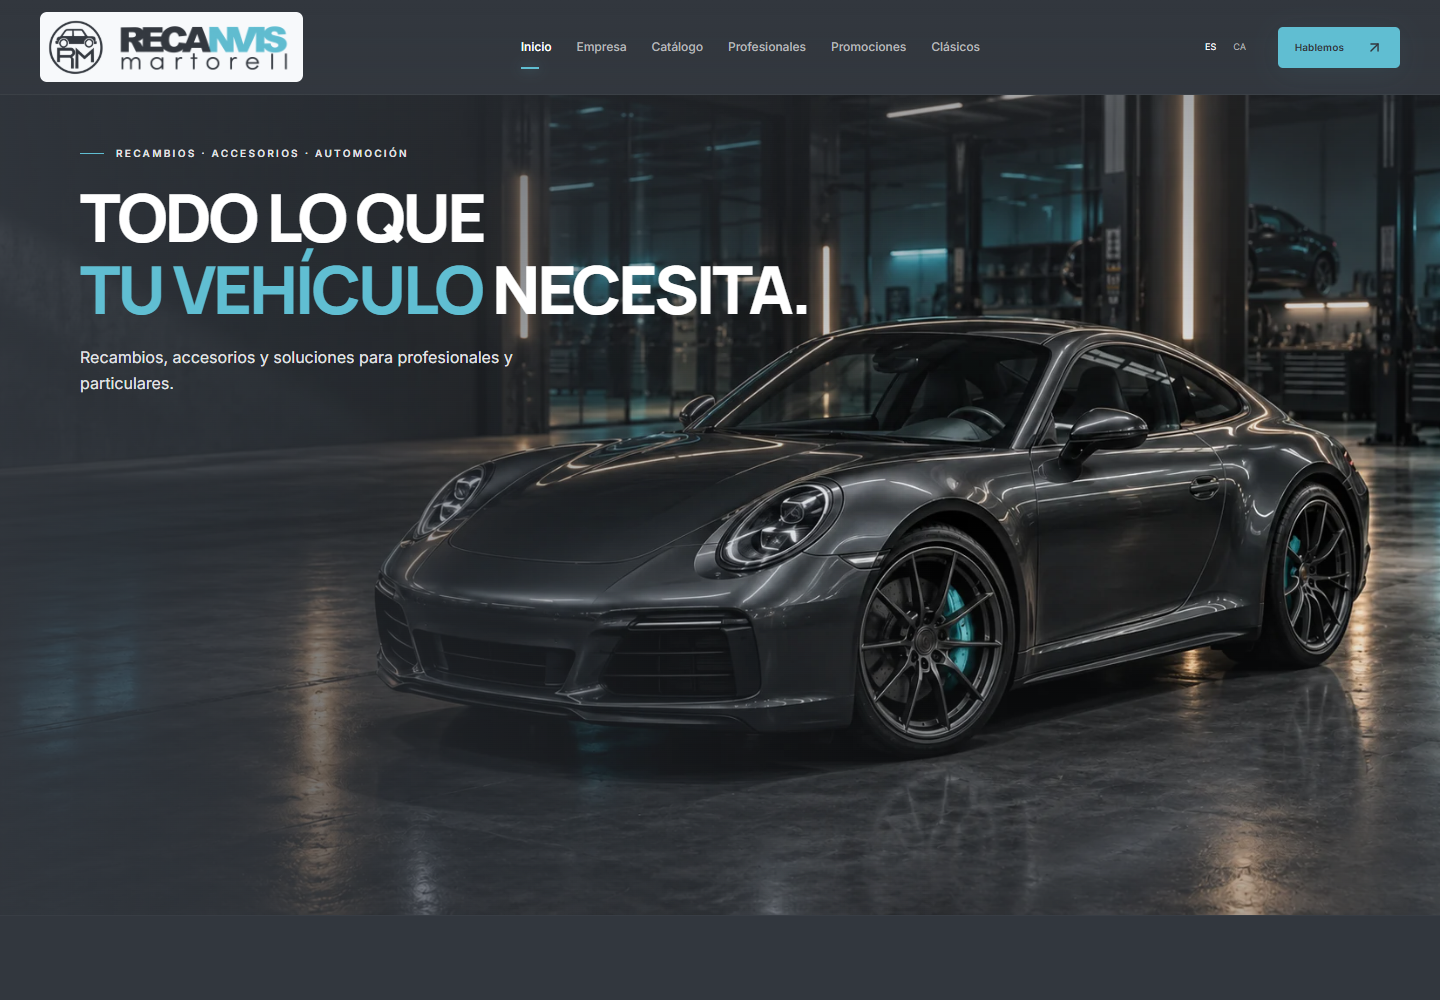
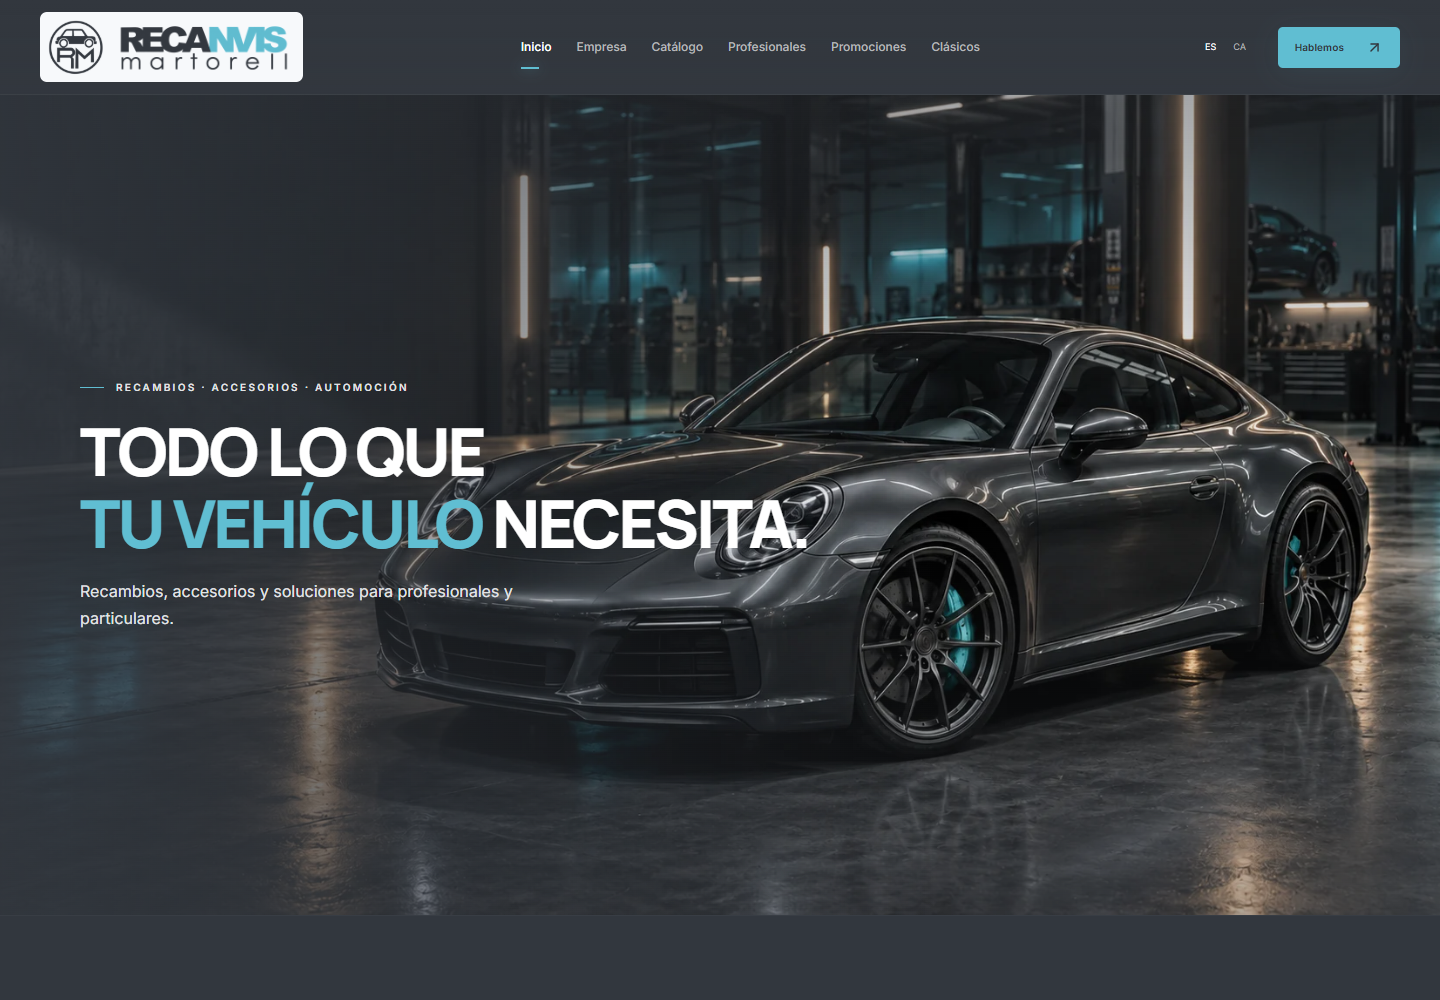
Centrar verticalmente el texto del hero en escritorio

diff --git a/src/styles/staticHero.css b/src/styles/staticHero.css
@@ -51,6 +51,15 @@
   line-height: 1.65;
   margin-top: 20px;
 }
+@media (min-width: 640px) {
+  .hero.hero-static {
+    display: flex;
+    align-items: center;
+  }
+  .hero-static .hero-copy {
+    padding-block: 0;
+  }
+}
 @media (min-width: 1600px) {
   .hero.hero-static {
     height: 850px;
